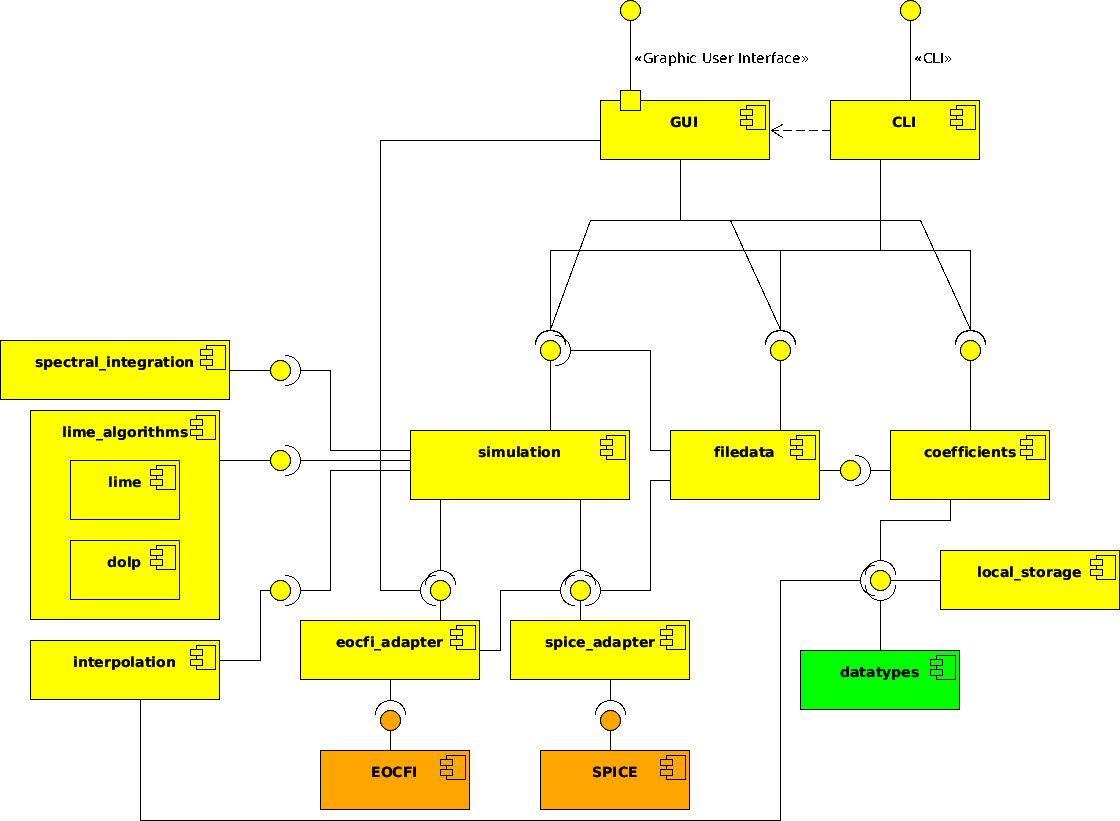
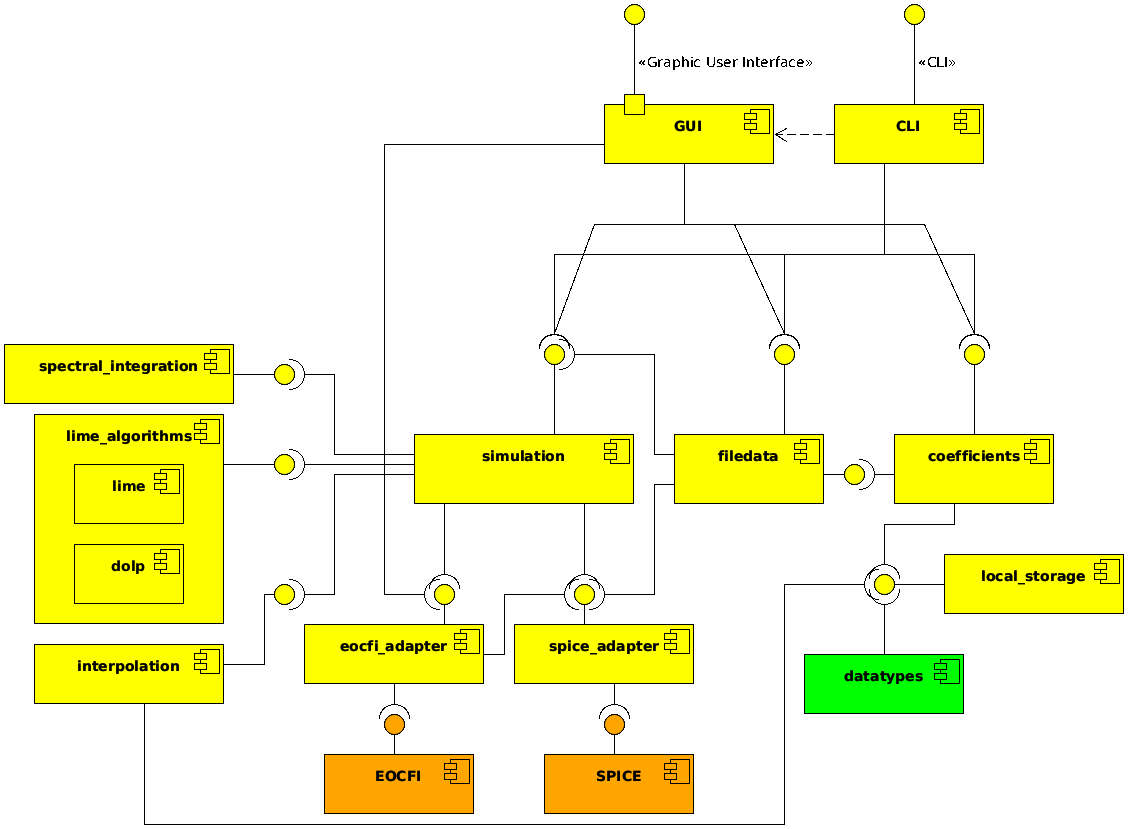
fixed contributing links, changed README uml diagram image, slight text changes in issue templates

diff --git a/README.md b/README.md
@@ -92,6 +92,7 @@ More information about LIME can be found on [lime.uva.es](https://lime.uva.es).
 * [![Qt](https://img.shields.io/badge/Qt-41CD52?style=for-the-badge&logo=qt&logoColor=FFFFFF)](https://www.qt.io/)
 * [![SPICE](https://img.shields.io/badge/spice-E03C31?style=for-the-badge&logo=nasa&logoColor=FFFFFF)](https://naif.jpl.nasa.gov/naif/)
 * [![EOCFI][eocfi-badge]](https://eop-cfi.esa.int/index.php/mission-cfi-software/eocfi-software)
+* [![CoMet Toolkit][comet-toolkit-badge]](https://www.comet-toolkit.org/)
 
 ## Getting started
 
@@ -119,7 +120,9 @@ pip install -e .
 
 ## Usage
 
-Usage examples.
+Download the [User Guide](https://calvalportal.ceos.org/documents/10136/964157/DA10_user_guide_v0.docx/b4724686-d758-5625-c1f4-9498c9b69c0d?version=1.0&t=1708947381404&download=true) to fully explore the capabilities of the toolbox.
+
+<!-- TODO: Add usage examples -->
 
 ## Roadmap
 
@@ -132,6 +135,7 @@ Usage examples.
     - [ ] The TBX must accept coefficients made for any response function specified in the coefficients file. (**NFR107-B**)
 - [ ] Improve the speed of uncertainties calculation. (**NFR306**)
 - [ ] Fully migrate project to GitHub (issues, CI pipeline, etc.)
+- [ ] Allow users to simulate series of lunar observations, where not only the time varies. (**FR107**)
 
 
 See the [open issues](https://github.com/LIME-ESA/lime_tbx/issues) for a full list of proposed features (and known issues).
@@ -157,7 +161,7 @@ pre-commit install
 - If you're satisfied, reattempt the commit.
 
 2. **Install Python Dependencies**  
-Install the project dependencies:
+Install the python package dependencies, preferably in a python virtual enironment:
 ```sh
 pip install -r requirements.txt  
 ```
@@ -166,16 +170,17 @@ pip install -r requirements.txt
 
 ### 2. Project Structure
 
-The structure of the **lime_tbx** project is visualized in the composite structure diagram:
+The structure of the **lime_tbx** Python package is visualized in the simplified composite structure diagram:
 
 <div align="center">
-<a href="./quality_documentation/uml/composite_structure.png">
-  <img src="./quality_documentation/uml/composite_structure.png" 
-alt="UML diagram of the composite structure of lime_tbx" width="1000px"/>
+<a href="./quality_documentation/uml/composite_simple.png">
+  <img src="./quality_documentation/uml/composite_simple.png" 
+alt="UML diagram of the simplified composite structure of lime_tbx" width="1000px"/>
 </a>
 </div>
 
-Refer to `quality_documentation/uml/composite_structure.png` for details about the organization and components of the project.
+Refer to `quality_documentation/uml/composite_structure.png` for details about the organization of the
+components of the python package.
 
 ---
 
@@ -249,7 +254,7 @@ docker run -v %dirname%:C:\repo lime_compiler
 
 ##### Mac
 
-Work in progress.
+The Mac automatic deployment is not available yet.
 
 #### Manual deployment
 
@@ -331,9 +336,24 @@ Distributed under the LGPL-v3 License. See [LGPL v3](./LICENSE) for more informa
 * [Agnieszka Bialek](agnieszka.bialek@npl.co.uk) - [NPL](https://npl.co.uk)
 * [Marc Bouvet](marc.bouvet@esa.int) - [ESA](https://esa.int)
 
+---
 
-<div align="center">
-<a href="https://esa.int"><img src="./docs/images/esa.png" alt="ESA logo" width="22%"/></a> <a href="https://uva.es"><img src="./docs/images/uva_sello.png" alt="Logo of UVa" width="22%"></a> <a href="https://npl.co.uk"><img src="./docs/images/npl.png" alt="Logo of NPL" width="22%"></a> <a href="https://vito.be"><img src="./docs/images/vito.png" alt="Logo of VITO" width="22%"></a>
+<style>
+.horizontal-align-container {
+  display: flex;
+  align-items: center; /* Centers the images vertically */
+  justify-content: center; /* Centers the images horizontally */
+  background-color: #ffffff; /* Your specified background color */
+  padding: 10px;
+}
+.horizontal-align-container a {
+  max-height: 100%; /* Ensures images fit within the container height */
+  max-width: 22%; /* Optional: Limits the maximum width of each image */
+  margin: 0 1.5%; /* Adds spacing between images */
+}
+</style>
+<div align="center" class="horizontal-align-container">
+<a href="https://esa.int"><img src="./docs/images/esa.png" alt="ESA logo"/></a> <a href="https://uva.es"><img src="./docs/images/uva_sello.png" alt="Logo of UVa"></a> <a href="https://npl.co.uk"><img src="./docs/images/npl.png" alt="Logo of NPL"></a> <a href="https://vito.be"><img src="./docs/images/vito.png" alt="Logo of VITO"></a>
 </div>
 
 
@@ -345,5 +365,6 @@ Distributed under the LGPL-v3 License. See [LGPL v3](./LICENSE) for more informa
 [license-url]: https://github.com/LIME-ESA/lime_tbx/blob/master/LICENSE.txt
 
[4 lines of base64/hex data omitted]

diff --git a/CONTRIBUTING.md b/CONTRIBUTING.md
@@ -2,9 +2,9 @@
 
 #### **Did you find a bug?**
 
-* **Ensure the bug was not already reported** by searching on GitLab under [Issues](https://gitlab.npl.co.uk/eco/eo/lime_tbx/-/issues).
+* **Ensure the bug was not already reported** by searching on GitHub under [Issues](https://github.com/LIME-ESA/lime_tbx/issues).
 
-* If you're unable to find an open issue addressing the problem, [open a new one](https://gitlab.npl.co.uk/eco/eo/lime_tbx/-/issues/new). Be sure to include a **title and clear description**, as much relevant information as possible (pictures, log files, etc.), and a **step by step** description so anyone can replicate the problem.
+* If you're unable to find an open issue addressing the problem, [open a new one](https://github.com/LIME-ESA/lime_tbx/issues/new). Be sure to include a **title and clear description**, as much relevant information as possible (pictures, log files, etc.), and a **step by step** description so anyone can replicate the problem.
 
 #### **Do you have questions about the source code?**
 
